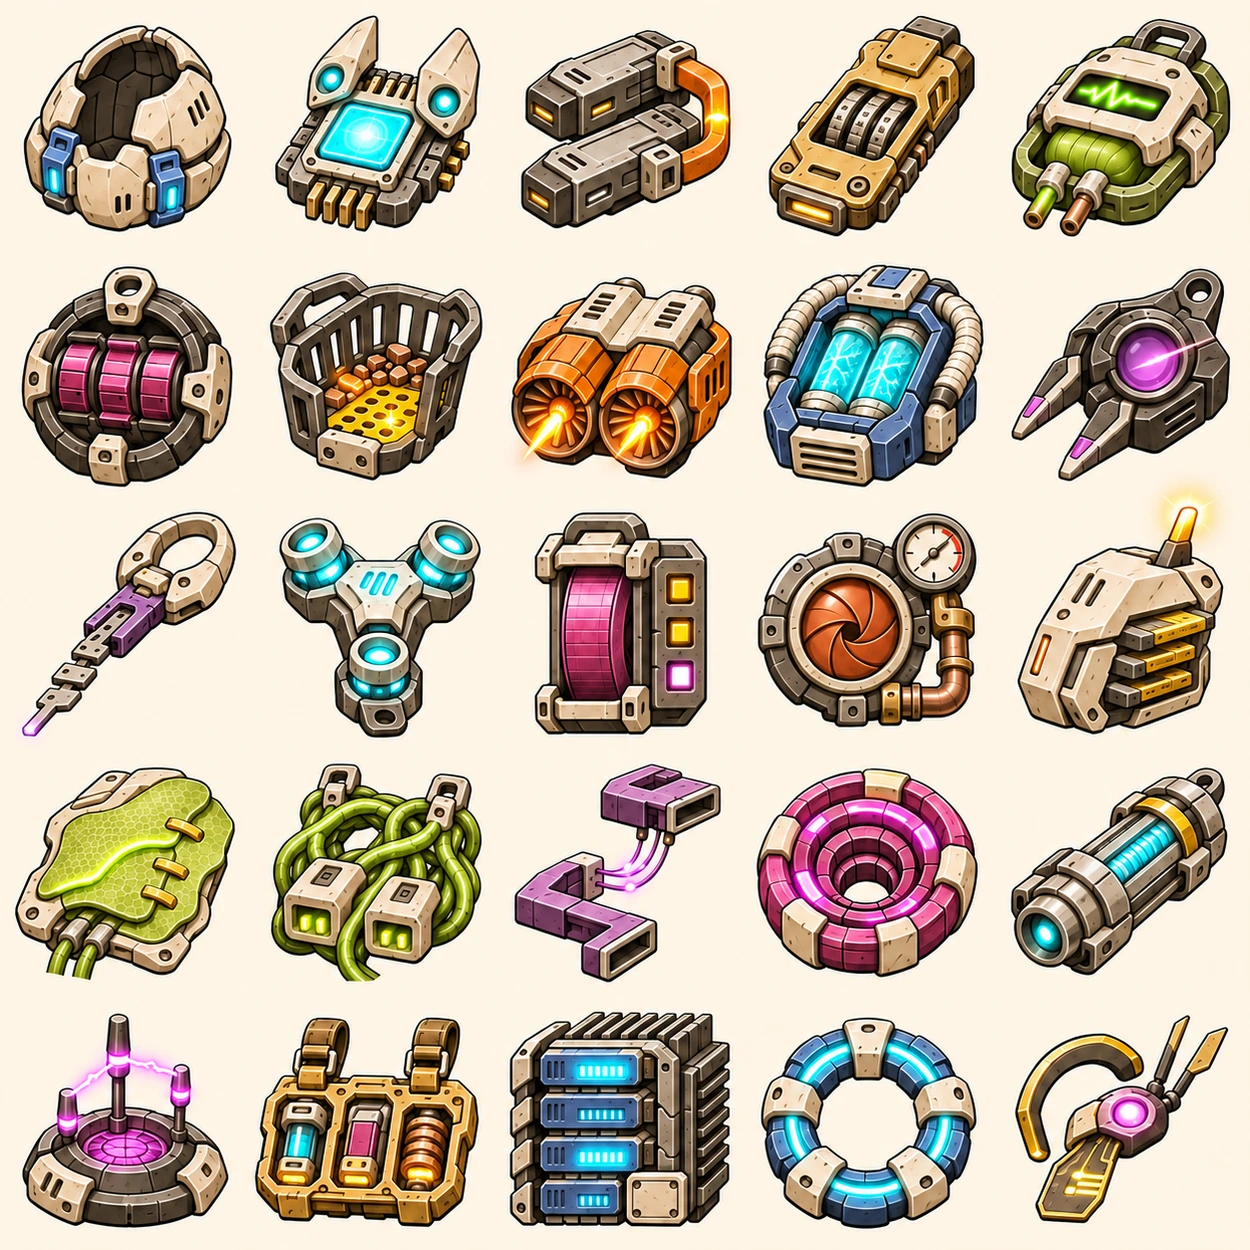
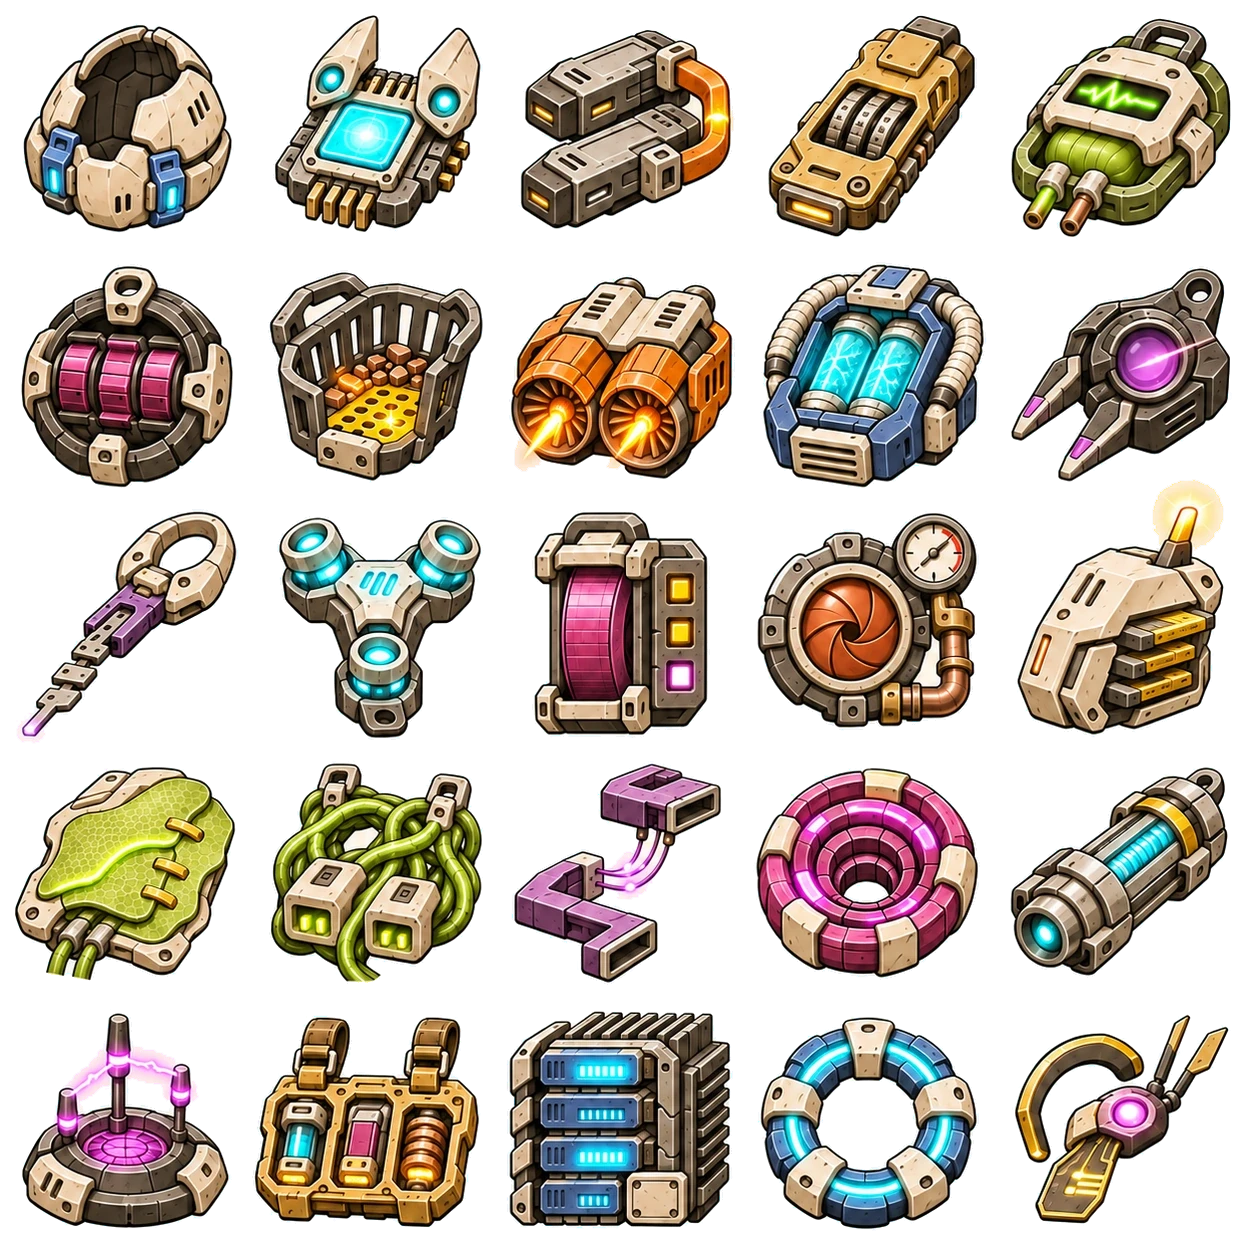
Remove opaque backgrounds from implant artwork

diff --git a/assets/implants/README.md b/assets/implants/README.md
@@ -11,7 +11,8 @@ field-service manual shading, strong small-scale silhouettes, uniform warm ivory
 background, no labels or frames. Built-in image generation produced two idle 5×5
 atlases, then two matching activation edits preserving each device's position,
 size, angle and construction while changing a local working component. Asset
-preparation only normalized atlas dimensions and encoded WebP; no art was repainted.
+preparation normalized the atlas dimensions and removed the ivory paper from
+both frame sets using alpha masks. Tile positions and activation hot spots are unchanged.
 First atlas follows the first 25 data entries (Hot Chip through Gilded Chip); second
 atlas follows the remaining 25 (Ceramic Casing through Inside Contact).
 
